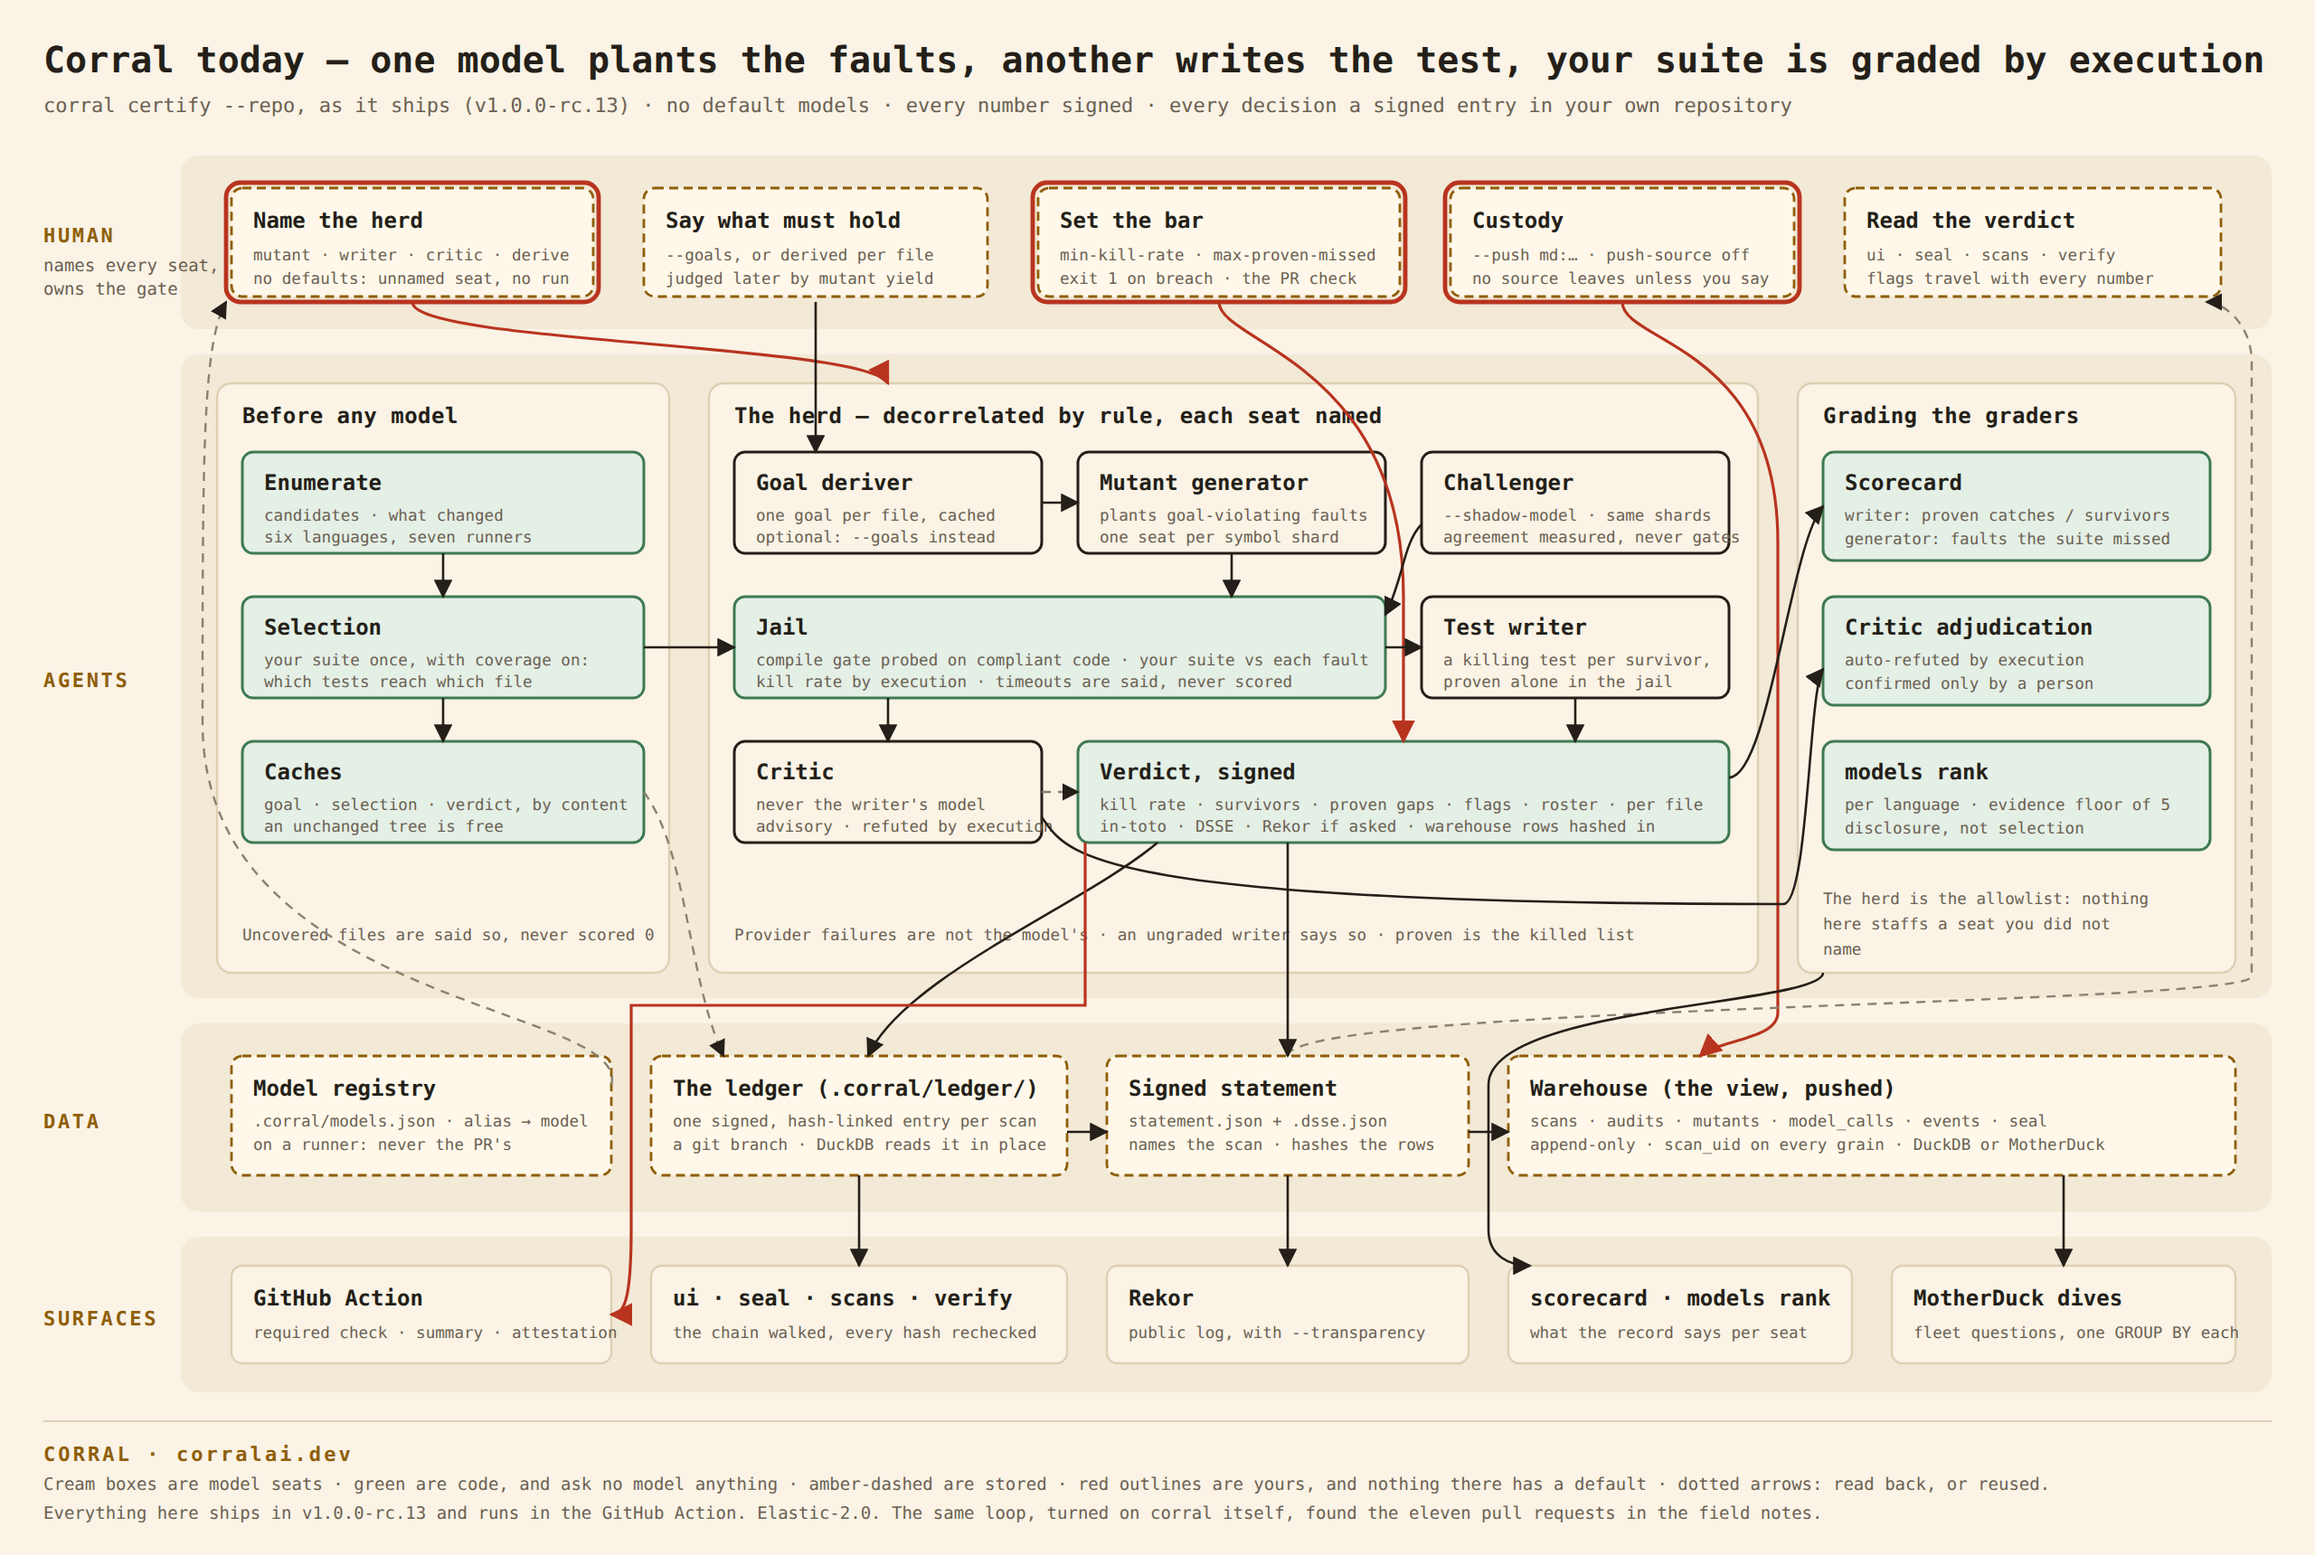
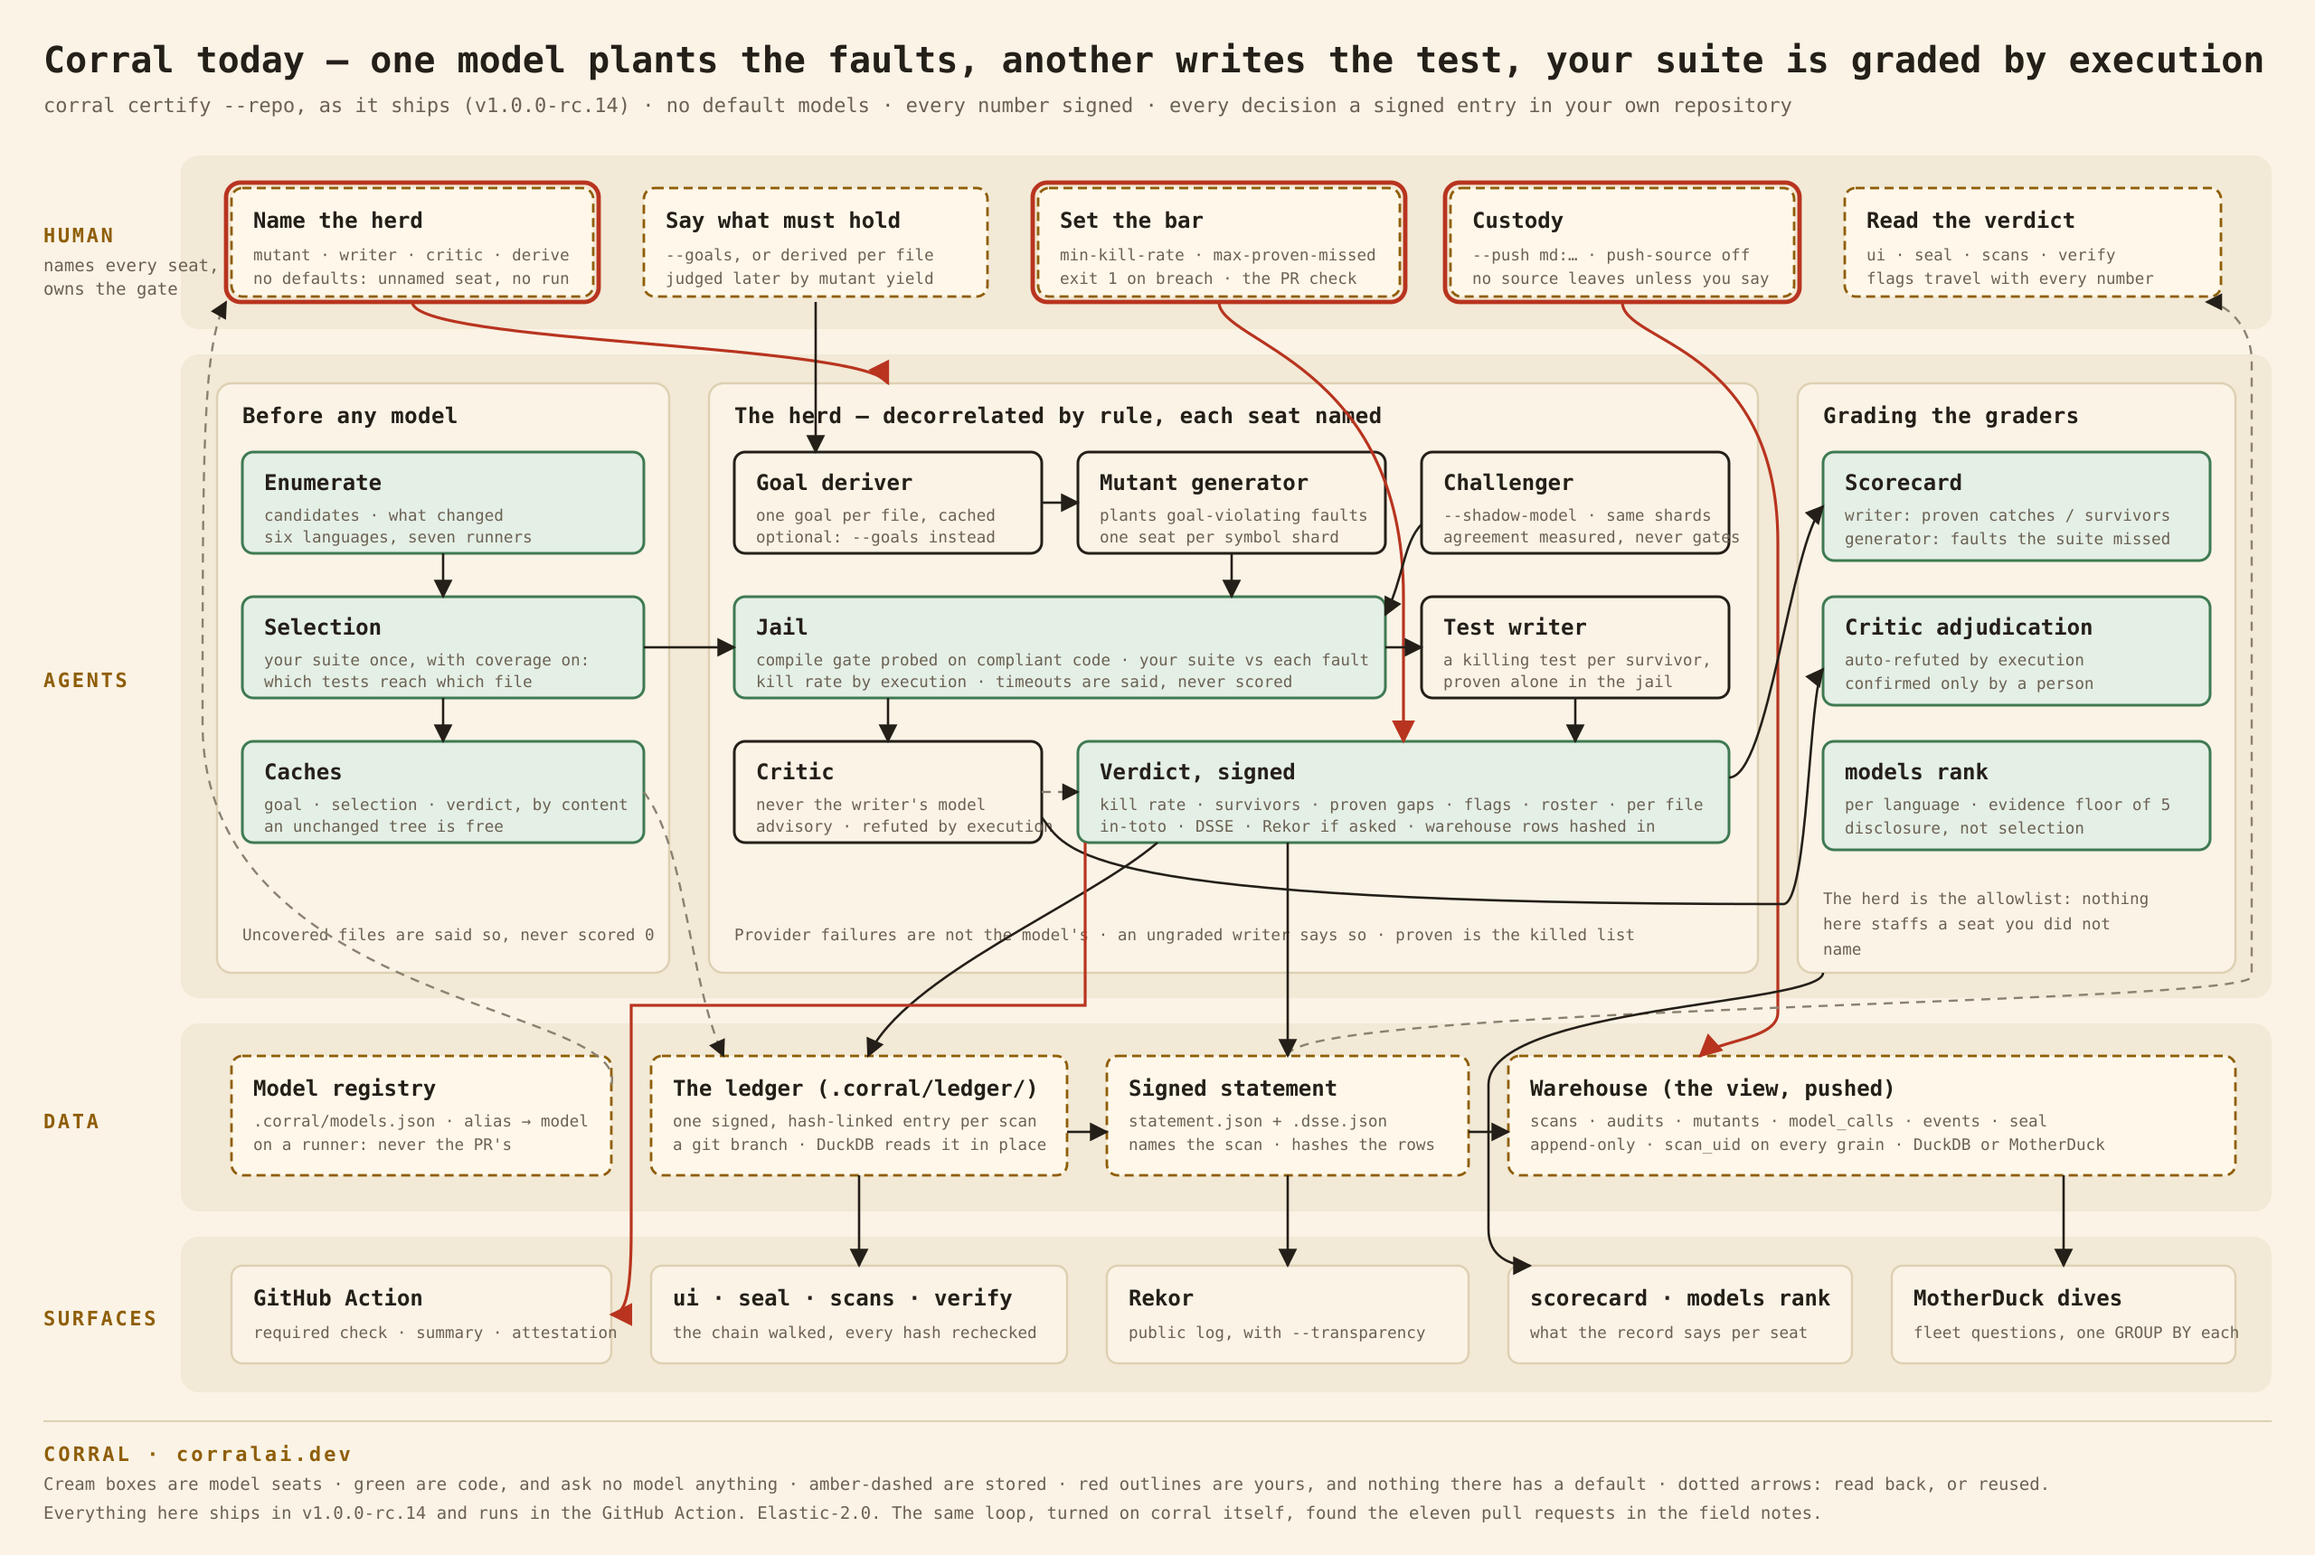
docs: pin v1.0.0-rc.14, and re-render both diagram PNGs with it (#361)
rc.14 is tagged, so the docs may name it, and TestDocsPinTheNewestCutTag
requires them to. Until this merges, main is red by construction, as
CONTRIBUTING describes. 27 pins move across the README, ROADMAP,
docs/corral, the site pages and components, and three diagrams. Two of
those, adversarial-review-loop.svg and the site's corral-storage.svg, did
not exist at the last pin bump.

The history stays: ROADMAP's account of rc.13 shipping and two test
comments about when rc.13 was cut are records of the past, not pins.

Both PNGs are re-rendered from their SVGs at 2x (inkscape, 2560x1720,
matching the committed size). The pin bumps used to edit the SVG and
nothing else, which is how corral-today.png sat three releases behind its
own source until #325. The new render was compared against the old one
before committing: same fonts and layout, only the version differs.

diff --git a/docs/corral/github-action.md b/docs/corral/github-action.md
@@ -164,7 +164,7 @@ slow"`), not a shell one-liner that chains multiple commands.
 
 **There is no `v1` tag, but there are pinnable release tags.** `v0.1.0` and
 `v0.2.0` predate the action and carry no `action.yml`; **`v0.3.0` and later do**
-(`v1.0.0-rc.13` is current). Prefer `pdbethke/corralai@v1.0.0-rc.13` over `@main` — pinning
+(`v1.0.0-rc.14` is current). Prefer `pdbethke/corralai@v1.0.0-rc.14` over `@main` — pinning
 a tag means a push to `main` cannot change what runs in your CI. Pin the commit
 SHA you reviewed (`pdbethke/corralai@<sha>`) if you want an immutable reference
 that a re-tag also cannot move. `@main` still works and tracks the newest
@@ -531,7 +531,7 @@ over both, not the store.
             git worktree add --detach .corral-ledger
             (cd .corral-ledger && git checkout --orphan corral/ledger && git rm -rfq . && echo "corral's record — see docs/corral/github-action.md" > README.md)
           fi
-      - uses: pdbethke/corralai@v1.0.0-rc.13
+      - uses: pdbethke/corralai@v1.0.0-rc.14
         with:
           test-command: pytest -q
           ledger: .corral-ledger
@@ -799,7 +799,7 @@ of every existing caller of this action.
 Set `min-kill-rate` (a number from `0.0` to `1.0`) to give the gate teeth:
 
 ```yaml
-- uses: pdbethke/corralai@v1.0.0-rc.13
+- uses: pdbethke/corralai@v1.0.0-rc.14
   with:
     test-command:  "go test ./..."
     gemini-key:    ${{ secrets.GEMINI_API_KEY }}
@@ -840,7 +840,7 @@ The audit is the gate by execution. The review is the gate by adversary,
 and the same step runs it when `reviewer-model` is named:
 
 ```yaml
-      - uses: pdbethke/corralai@v1.0.0-rc.13
+      - uses: pdbethke/corralai@v1.0.0-rc.14
         with:
           test-command: "go test ./..."
           mutant-model: gemini-3.6-flash

diff --git a/ROADMAP.md b/ROADMAP.md
@@ -2,7 +2,7 @@
 # Corralai Roadmap
 
 > **Directional, not committed.** Solo-maintained and moving fast
-> (v1.0.0-rc.13). This is where corral is heading and *why*. No dates —
+> (v1.0.0-rc.14). This is where corral is heading and *why*. No dates —
 > priorities shift with what real use surfaces.
 
 **Corral is an auditing engine.** It judges code it did not write — by execution
@@ -243,7 +243,7 @@ carries the product now.
   a whole-repo scan of this repo's 205 candidates would be roughly 37 hours, which
   is why `top` exists.
 
-  `action.yml` wraps this as `pdbethke/corralai@main` (tags are cut — `@v1.0.0-rc.13` is current; pin a commit SHA for immutability against a re-tag); it installs `corral` itself via
+  `action.yml` wraps this as `pdbethke/corralai@main` (tags are cut — `@v1.0.0-rc.14` is current; pin a commit SHA for immutability against a re-tag); it installs `corral` itself via
   `go install`, using whatever Go toolchain the runner already has (never
   `actions/setup-go`, which would swap out the toolchain the audited project's own
   tests run under). Check out with `fetch-depth: 0` (required — the diff needs the merge

diff --git a/README.md b/README.md
@@ -30,7 +30,7 @@ package with a five-clause password rule and a test that checks only two of
 them, then audits it with the real `certify --local`:
 
 ```bash
-go install github.com/pdbethke/corralai/cmd/corral@v1.0.0-rc.13   # @latest still resolves to 0.8.x: a release candidate is a pre-release to Go
+go install github.com/pdbethke/corralai/cmd/corral@v1.0.0-rc.14   # @latest still resolves to 0.8.x: a release candidate is a pre-release to Go
 export ANTHROPIC_API_KEY=sk-ant-...     # or OPENAI_/GEMINI_/OPENROUTER_API_KEY
 
 corral demo --writer-model <model> --mutant-model <model> --critic-model <model>
@@ -495,7 +495,7 @@ those seats work in and the **fences** are the security boundaries.
 
 ## In CI — the GitHub Action
 
-**No brain, no server — the GitHub Action.** `pdbethke/corralai@v1.0.0-rc.13` (pin the
+**No brain, no server — the GitHub Action.** `pdbethke/corralai@v1.0.0-rc.14` (pin the
 tag, or a reviewed SHA — `@main` floats) runs `corral
 certify --repo` straight in your own CI job, on the checkout that's already
 there: no jail, no brain, no separate infra. It mutates the runner's checkout

diff --git a/docs/corral/internal-forge.md b/docs/corral/internal-forge.md
@@ -94,7 +94,7 @@ corral:
     # CORRALAI_CERTIFY_KEY (hex seed), CORRAL_LEDGER_TOKEN, GEMINI_API_KEY and
     # ANTHROPIC_API_KEY are masked CI/CD variables, never in this file.
   before_script:
-    - go install github.com/pdbethke/corralai/cmd/corral@v1.0.0-rc.13
+    - go install github.com/pdbethke/corralai/cmd/corral@v1.0.0-rc.14
     - export PATH="$PATH:$(go env GOPATH)/bin"
     - git remote set-url origin "https://oauth2:${CORRAL_LEDGER_TOKEN}@${CI_SERVER_HOST}/${CI_PROJECT_PATH}.git"
   script:
@@ -117,7 +117,7 @@ checks it anywhere.
 
 The recipe is the same shell; only the push credential and the
 target-branch variable change. Gitea Actions runs GitHub-style workflows,
-so the Action's own YAML works there with `uses: pdbethke/corralai@v1.0.0-rc.13`
+so the Action's own YAML works there with `uses: pdbethke/corralai@v1.0.0-rc.14`
 pointed at a mirror (Gitea resolves `uses:` against `github.com` by
 default) and `actions/attest` removed — there is no attestation API to
 call. Bitbucket Pipelines: `BITBUCKET_PR_DESTINATION_BRANCH` is the target,

diff --git a/docs/corral/actions-as-swarm.md b/docs/corral/actions-as-swarm.md
@@ -33,7 +33,7 @@ jobs:
       - uses: actions/checkout@v4
         with:
           fetch-depth: 0      # required — see github-action.md's "fetch-depth: 0 is required"
-      - uses: pdbethke/corralai@v1.0.0-rc.13
+      - uses: pdbethke/corralai@v1.0.0-rc.14
         with:
           test-command: "python -m pytest -q"
           # diff-base left empty: on a pull_request event the action already
@@ -80,7 +80,7 @@ acceptable on a recurring basis) with an empty `diff-base` and a `top` bound
 covers the rest:
 
 ```yaml
-  - uses: pdbethke/corralai@v1.0.0-rc.13
+  - uses: pdbethke/corralai@v1.0.0-rc.14
     with:
       test-command: "python -m pytest -q"
       diff-base: ""        # whole-repo scope — see "why scoped by default"
